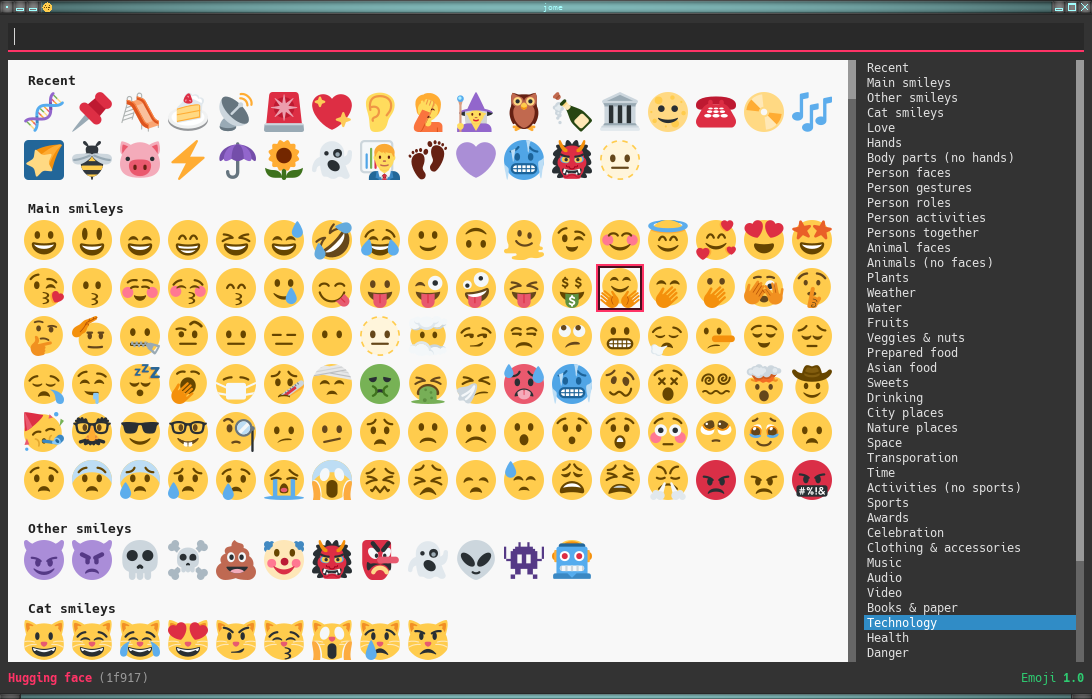
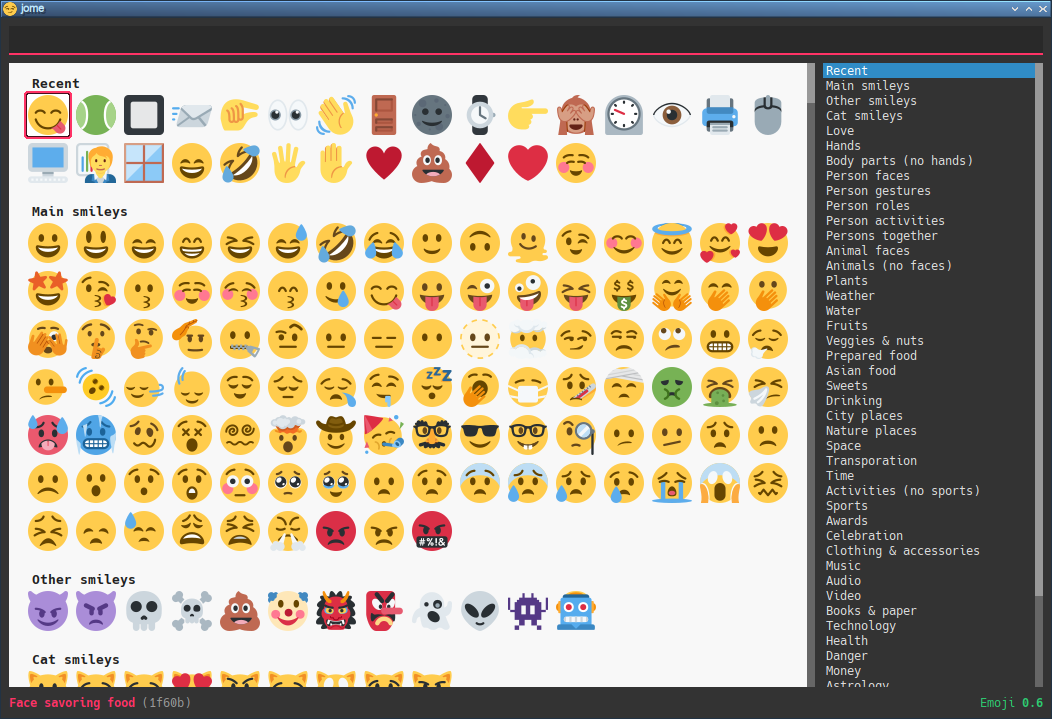
Improve selection square
Round corners and brighter background, behind the emoji.

diff --git a/jome/q-emojis-widget.cpp b/jome/q-emojis-widget.cpp
@@ -89,7 +89,7 @@ QGraphicsPixmapItem *QEmojisWidget::_createSelectedGraphicsItem()
 
     graphicsItem->hide();
     graphicsItem->setEnabled(false);
-    graphicsItem->setZValue(1000.);
+    graphicsItem->setZValue(-5.);
     return graphicsItem;
 }
 
